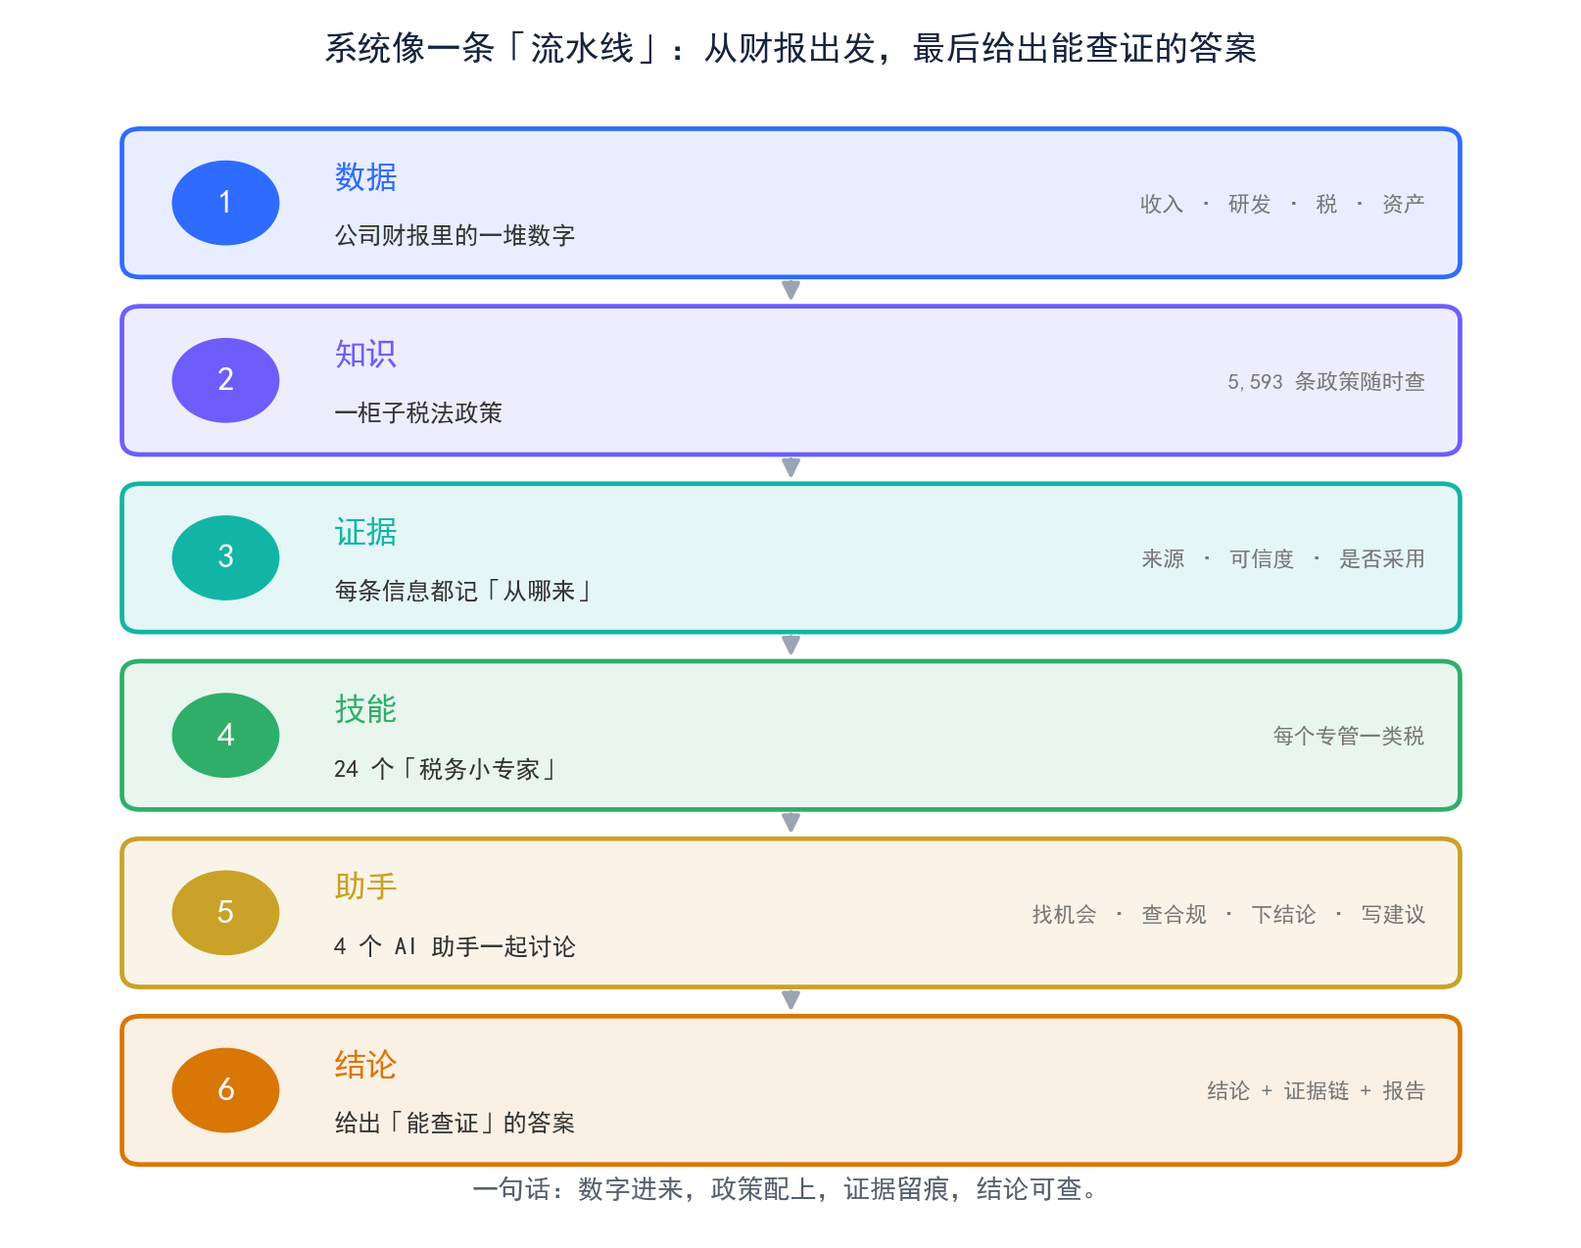
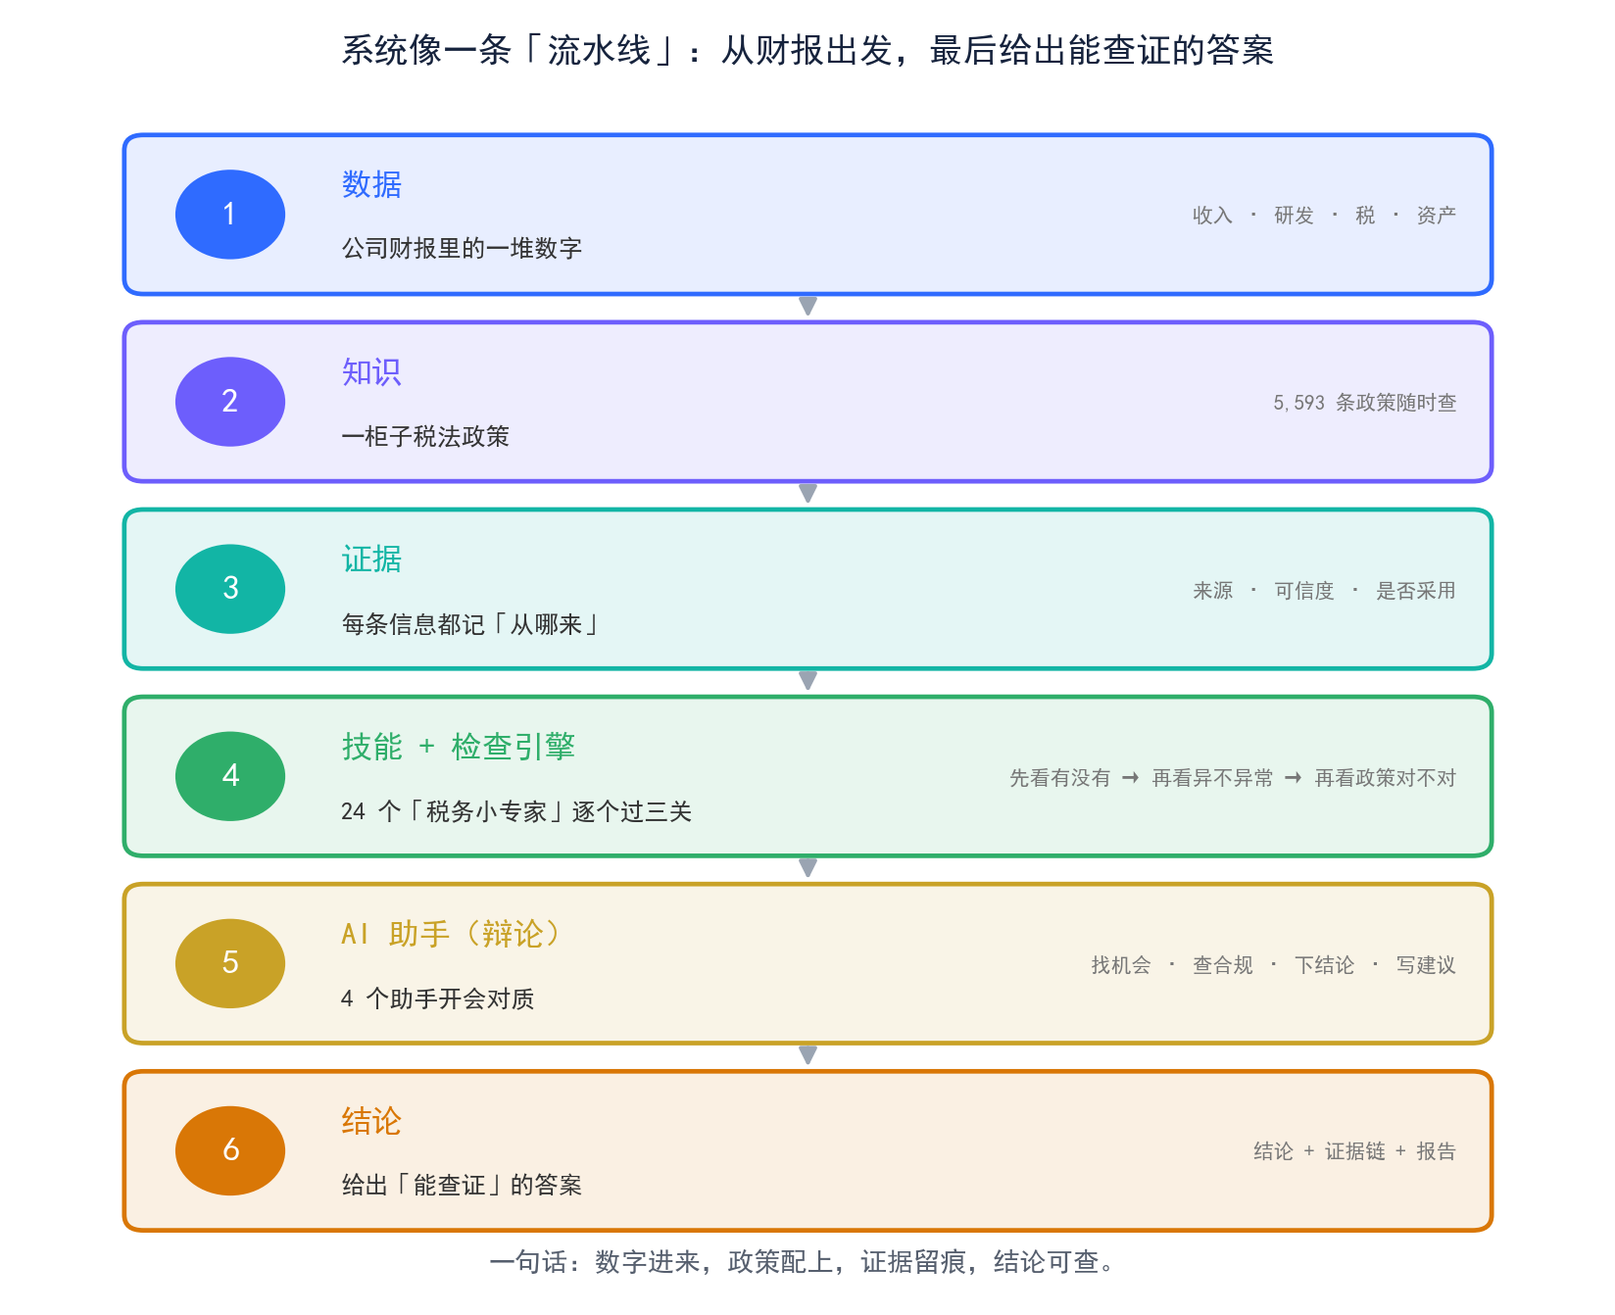
演示材料升级：新增检查引擎图(24技能三级门禁)与辩论流程图(红蓝绿+顾问)，架构图突出技能/辩论，讲稿同步更新

diff --git a/scripts/make_demo_figures.py b/scripts/make_demo_figures.py
@@ -1,9 +1,7 @@
-"""生成演示用「大白话」三张图：架构图 / 流程图 / 更新迭代图。
+"""生成演示用「大白话」图：架构图 / 检查引擎图 / 辩论流程图 / 流程图 / 迭代图。
 
 输出到 assets/：
-    demo_架构图.png
-    demo_流程图.png
-    demo_迭代图.png
+    demo_架构图.png  demo_引擎图.png  demo_辩论图.png  demo_流程图.png  demo_迭代图.png
 用法：python scripts/make_demo_figures.py
 """
 from __future__ import annotations
@@ -32,6 +30,7 @@ for cand in (r"C:\Windows\Fonts\simhei.ttf", r"C:\Windows\Fonts\msyh.ttc"):
 rcParams["axes.unicode_minus"] = False
 
 BLUE, PURPLE, TEAL, GREEN, AMBER, ORANGE = "#2f6bff", "#6d5efc", "#12b5a5", "#2fae6a", "#c9a227", "#d97706"
+RED, BLUE2, GREY = "#d9534f", "#2f6bff", "#8a93a3"
 
 
 def _canvas(w, h):
@@ -42,18 +41,35 @@ def _canvas(w, h):
     return fig, ax
 
 
-# ────────────── ① 架构图（大白话）──────────────
+def _box(ax, x, y, w, h, color, title, sub="", tsize=13, ssize=9.5):
+    ax.add_patch(FancyBboxPatch((x, y), w, h,
+                 boxstyle="round,pad=0.03,rounding_size=0.14",
+                 linewidth=2, edgecolor=color, facecolor=color + "1a"))
+    ax.text(x + w / 2, y + h / 2 + (0.28 if sub else 0), title, fontsize=tsize,
+            color=color, ha="center", va="center", fontweight="bold")
+    if sub:
+        ax.text(x + w / 2, y + h / 2 - 0.34, sub, fontsize=ssize, color="#555555",
+                ha="center", va="center")
+
+
+def _arrow(ax, p1, p2, color=GREY, style="-|>", lw=1.6, ls="-"):
+    ax.add_patch(FancyArrowPatch(p1, p2, arrowstyle=style, mutation_scale=16,
+                 color=color, linewidth=lw, linestyle=ls,
+                 connectionstyle="arc3,rad=0"))
+
+
+# ────────────── ① 架构图 ──────────────
 def arch():
     layers = [
         ("数据", "公司财报里的一堆数字", "收入 · 研发 · 税 · 资产", BLUE),
         ("知识", "一柜子税法政策", "5,593 条政策随时查", PURPLE),
         ("证据", "每条信息都记「从哪来」", "来源 · 可信度 · 是否采用", TEAL),
-        ("技能", "24 个「税务小专家」", "每个专管一类税", GREEN),
-        ("助手", "4 个 AI 助手一起讨论", "找机会 · 查合规 · 下结论 · 写建议", AMBER),
+        ("技能 + 检查引擎", "24 个「税务小专家」逐个过三关", "先看有没有 → 再看异不异常 → 再看政策对不对", GREEN),
+        ("AI 助手（辩论）", "4 个助手开会对质", "找机会 · 查合规 · 下结论 · 写建议", AMBER),
         ("结论", "给出「能查证」的答案", "结论 + 证据链 + 报告", ORANGE),
     ]
-    fig, ax = _canvas(9.6, 7.6)
-    y, h, gap = 9.05, 1.18, 0.28
+    fig, ax = _canvas(9.8, 8.0)
+    y, h, gap = 9.05, 1.20, 0.26
     for i, (t, d, s, c) in enumerate(layers, 1):
         ax.add_patch(FancyBboxPatch((0.7, y - h), 8.6, h,
                      boxstyle="round,pad=0.02,rounding_size=0.12",
@@ -61,42 +77,110 @@ def arch():
         ax.add_patch(plt.Circle((1.35, y - h / 2), 0.34, color=c, zorder=3))
         ax.text(1.35, y - h / 2, str(i), color="white", ha="center", va="center",
                 fontsize=15, fontweight="bold", zorder=4)
-        ax.text(2.05, y - h / 2 + 0.22, t, fontsize=14, color=c, va="center", fontweight="bold")
+        ax.text(2.05, y - h / 2 + 0.24, t, fontsize=13.5, color=c, va="center", fontweight="bold")
         ax.text(2.05, y - h / 2 - 0.26, d, fontsize=10.5, color="#333333", va="center")
-        ax.text(9.1, y - h / 2, s, fontsize=9.5, color="#777777", va="center", ha="right")
+        ax.text(9.1, y - h / 2, s, fontsize=8.8, color="#777777", va="center", ha="right")
         if i < len(layers):
             ax.add_patch(FancyArrowPatch((5.0, y - h - 0.02), (5.0, y - h - gap + 0.02),
                          arrowstyle="-|>", mutation_scale=16, color="#9aa4b2", linewidth=1.6))
         y -= (h + gap)
     ax.text(5.0, 9.65, "系统像一条「流水线」：从财报出发，最后给出能查证的答案",
             fontsize=15, ha="center", fontweight="bold", color="#16233d")
-    ax.text(5.0, 0.28, "一句话：数字进来，政策配上，证据留痕，结论可查。",
+    ax.text(5.0, 0.22, "一句话：数字进来，政策配上，证据留痕，结论可查。",
             fontsize=11.5, ha="center", color="#565f6e")
     fig.tight_layout()
     fig.savefig(OUT / "demo_架构图.png", bbox_inches="tight")
     plt.close(fig)
 
 
-# ────────────── ② 流程图（大白话）──────────────
+# ────────────── ② 检查引擎图（三级门禁）──────────────
+def engine():
+    gates = [
+        ("输入", "一家公司的全部数据", 8.4, BLUE, ""),
+        ("第 1 关 · L0 事实存在", "这条线「有没有」？", 7.4, PURPLE, "有 → 候选池"),
+        ("第 2 关 · L1 异常信号", "是不是「不正常」？", 6.4, TEAL, "异常 → 值得查"),
+        ("第 3 关 · L2 政策匹配", "政策对不对、条件够不够？", 5.4, GREEN, "匹配 → 深算"),
+        ("证据门禁", "关键数据「齐不齐」？", 4.4, AMBER, "齐 → PASS"),
+    ]
+    fig, ax = _canvas(10.2, 7.8)
+    y, h, gap = 8.9, 1.05, 0.42
+    for t, q, w, c, note in gates:
+        x = (10 - w) / 2
+        ax.add_patch(FancyBboxPatch((x, y - h), w, h,
+                     boxstyle="round,pad=0.02,rounding_size=0.12",
+                     linewidth=2, edgecolor=c, facecolor=c + "1c"))
+        ax.text(x + w / 2, y - h / 2 + 0.22, t, fontsize=12.5, color=c, ha="center",
+                va="center", fontweight="bold")
+        ax.text(x + w / 2, y - h / 2 - 0.24, q, fontsize=10, color="#333333", ha="center", va="center")
+        ax.text(9.85, y - h / 2, note, fontsize=8.6, color="#888888", ha="right", va="center")
+        ax.add_patch(FancyArrowPatch((5.0, y - h - 0.02), (5.0, y - h - gap + 0.06),
+                     arrowstyle="-|>", mutation_scale=15, color="#9aa4b2", linewidth=1.5))
+        y -= (h + gap)
+    # 出口
+    ax.add_patch(FancyBboxPatch((2.6, y - 0.95), 4.8, 0.95,
+                 boxstyle="round,pad=0.03,rounding_size=0.14",
+                 linewidth=2.4, edgecolor=ORANGE, facecolor=ORANGE + "22"))
+    ax.text(5.0, y - 0.48, "出口：只把「最值得查」的方向送去深度分析", fontsize=11.5,
+            color=ORANGE, ha="center", va="center", fontweight="bold")
+    ax.text(5.0, 9.55, "检查引擎：24 个技能，每个都要过「三关」", fontsize=15.5, ha="center",
+            fontweight="bold", color="#16233d")
+    ax.text(5.0, 0.30, "把「可能的省税点」筛成「值得认真算的方向」——不放过、也不乱报。",
+            fontsize=11, ha="center", color="#565f6e")
+    fig.tight_layout()
+    fig.savefig(OUT / "demo_引擎图.png", bbox_inches="tight")
+    plt.close(fig)
+
+
+# ────────────── ③ 辩论流程图 ──────────────
+def debate():
+    fig, ax = _canvas(9.8, 8.0)
+    _box(ax, 0.7, 7.1, 3.5, 1.7, RED, "Red · 找机会", "从数据里提出「可能的省税点」", 13, 9.5)
+    _box(ax, 5.8, 7.1, 3.5, 1.7, BLUE2, "Blue · 查合规", "逐条质疑：合不合规？有没有风险？", 13, 9.5)
+    ax.add_patch(FancyArrowPatch((4.25, 8.15), (5.75, 8.15), arrowstyle="-|>",
+                 mutation_scale=16, color=GREY, linewidth=1.8))
+    ax.add_patch(FancyArrowPatch((5.75, 7.75), (4.25, 7.75), arrowstyle="-|>",
+                 mutation_scale=16, color=GREY, linewidth=1.8))
+    ax.text(5.0, 8.55, "多轮对质", fontsize=11, color="#333333", ha="center", fontweight="bold")
+    ax.text(5.0, 6.82, "有新证据就继续，没有就停", fontsize=9.5, color="#777777", ha="center")
+
+    _box(ax, 3.25, 4.4, 3.5, 1.6, GREEN, "Green · 综合决策", "由「规则」下结论，AI 只补充理由", 13, 9)
+    _arrow(ax, (2.45, 7.1), (4.2, 6.0), GREY)
+    _arrow(ax, (7.55, 7.1), (5.8, 6.0), GREY)
+
+    _box(ax, 3.0, 2.2, 4.0, 1.5, ORANGE,
+         "结论四态", "已确认 / 情景测算 / 证据不足 / 不推荐", 12.5, 9)
+    _arrow(ax, (5.0, 4.4), (5.0, 3.7), GREY)
+
+    _box(ax, 7.15, 4.4, 2.15, 1.6, PURPLE, "Advisor", "税务顾问\n意见书", 11.5, 9)
+    ax.add_patch(FancyArrowPatch((6.75, 5.2), (7.15, 5.2), arrowstyle="-|>",
+                 mutation_scale=14, color=PURPLE, linewidth=1.4, linestyle="--"))
+
+    ax.text(5.0, 9.5, "辩论流程：红蓝对质，绿方拍板", fontsize=15.5, ha="center",
+            fontweight="bold", color="#16233d")
+    ax.text(5.0, 1.35, "重点：无论怎么辩论，「金额」和「政策是否有效」都由规则说了算，AI 改不了。",
+            fontsize=11, ha="center", color=RED, fontweight="bold")
+    fig.tight_layout()
+    fig.savefig(OUT / "demo_辩论图.png", bbox_inches="tight")
+    plt.close(fig)
+
+
+# ────────────── ④ 流程图 ──────────────
 def flow():
     steps = [
         ("①", "选一家公司", "输入股票代码"),
         ("②", "读它的财报", "自动读 2024 年数据"),
-        ("③", "找出省税点", "比如研发、折旧、补助"),
-        ("④", "查对应税法", "只查「还在生效」的"),
+        ("③", "过检查引擎", "24 个技能过三关，筛方向"),
+        ("④", "红蓝辩论", "找机会 vs 查合规，多轮对质"),
         ("⑤", "算一算", "能省多少税（确定性计算）"),
         ("⑥", "给出结论", "结论 + 证据链，可逐条核对"),
     ]
     fig, ax = _canvas(9.8, 7.2)
-    cols = 3
-    bw, bh = 2.7, 1.9
-    xs = [0.55, 3.65, 6.75]
-    ys = [5.7, 2.6]
-    centers = []
+    cols, bw, bh = 3, 2.7, 1.9
+    xs, ys = [0.55, 3.65, 6.75], [5.7, 2.6]
     for idx, (num, t, d) in enumerate(steps):
         r, c = divmod(idx, cols)
         x, y = xs[c], ys[r]
-        col = [BLUE, PURPLE, TEAL, GREEN, AMBER, ORANGE][idx]
+        col = [BLUE, PURPLE, TEAL, AMBER, GREEN, ORANGE][idx]
         ax.add_patch(FancyBboxPatch((x, y), bw, bh,
                      boxstyle="round,pad=0.03,rounding_size=0.14",
                      linewidth=2, edgecolor=col, facecolor=col + "1a"))
@@ -104,10 +188,8 @@ def flow():
                 ha="center", va="center", fontweight="bold")
         ax.text(x + bw / 2, y + bh - 0.92, t, fontsize=13, color="#16233d",
                 ha="center", va="center", fontweight="bold")
-        ax.text(x + bw / 2, y + bh - 1.42, d, fontsize=9.5, color="#555555",
+        ax.text(x + bw / 2, y + bh - 1.42, d, fontsize=9, color="#555555",
                 ha="center", va="center")
-        centers.append((x + bw / 2, y, x, y + bh))
-    # 箭头：①→②→③ 向右，③→④ 换行，④→⑤→⑥ 向右
     def arrow(x1, y1, x2, y2):
         ax.add_patch(FancyArrowPatch((x1, y1), (x2, y2), arrowstyle="-|>",
                      mutation_scale=16, color="#9aa4b2", linewidth=1.6))
@@ -125,12 +207,12 @@ def flow():
     plt.close(fig)
 
 
-# ────────────── ③ 更新迭代图 ──────────────
+# ────────────── ⑤ 迭代图 ──────────────
 def timeline():
     items = [
         ("v1", "数据 + 架构", "88 张表并入，搭好骨架", BLUE),
         ("v2", "证据层", "每条信息都记来源", PURPLE),
-        ("v3", "审查与验证", "147 个用例，字段级口径", TEAL),
+        ("v3", "检查引擎", "24 技能 + 三级门禁 + 147 用例", TEAL),
         ("v4", "界面", "三栏工作台，看得见", GREEN),
         ("v5", "可信度工程", "金额语义 + 政策时效门禁", AMBER),
         ("v6", "意见与设置", "税务顾问意见书", ORANGE),
@@ -164,6 +246,8 @@ def timeline():
 
 if __name__ == "__main__":
     arch()
+    engine()
+    debate()
     flow()
     timeline()
     print("已生成：", [p.name for p in sorted(OUT.glob("demo_*.png"))])

diff --git a/演示讲稿.md b/演示讲稿.md
@@ -2,7 +2,8 @@
 
 > 适用：竞赛介绍视频 / 现场答辩演示
 > 用法：**【】内是屏幕操作或画面提示，不用念出来**；正文为口播稿。
-> 建议：开头与结尾队长出镜，中间放录屏演示；全程配三张图（`assets/demo_架构图.png`、`demo_流程图.png`、`demo_迭代图.png`）。
+> 建议：开头与结尾队长出镜，中间放录屏演示。
+> 配图（`assets/`）：`demo_架构图.png`、`demo_引擎图.png`、`demo_辩论图.png`、`demo_流程图.png`、`demo_迭代图.png`
 
 ---
 
@@ -20,70 +21,93 @@
 
 ---
 
-## ⏱ 0:30 – 1:10　痛点（为什么要做）
+## ⏱ 0:30 – 1:00　痛点（为什么要做）
 
 【画面：`assets/demo_架构图.png`】
 
 > 现在很多人用大模型做税务分析，但它有三个硬伤：
-> **第一**，说出来的结论查不到依据；
-> **第二**，可能引用一条根本不存在、或者早就作废的政策；
+> **第一**，结论查不到依据；
+> **第二**，可能引用一条不存在、或早就作废的政策；
 > **第三**，明明不满足条件，也说「可以享受」——这在税务上是会出事的。
 >
 > 我们的思路很简单：**让程序负责「确定性」，让大模型只负责「发现和解释」。**
 
 ---
 
-## ⏱ 1:10 – 3:30　现场演示（核心，边操作边讲）
+## ⏱ 1:00 – 2:10　系统怎么想（检查引擎 + 辩论）
 
-【画面：打开「生成」页 → 输入股票代码 600004 → 选 2024 年 → 点「开始分析」】
+【画面：`assets/demo_引擎图.png`】
 
-> 下面我用一家**真实的上市公司**演示。输入代码，选择年度，点击分析。
+> 先说我们的**检查引擎**。
+> 系统内置了 **24 个「税务小专家」**，每个专家管一类税。
+> 对每一类税，它都要过**三关**：
+> **第一关 L0**，看这条线「有没有」；
+> **第二关 L1**，看它「正不正常」——比如是不是明显偏离同行；
+> **第三关 L2**，看「政策对不对、条件够不够」。
+> 最后还有一道**证据门禁**：关键数据齐不齐？**不齐就标「待补」，绝不硬算。**
+> 这样，就把「可能的省税点」筛成了「值得认真算的方向」。
 
-【进度条推进，展示运行中】
+【画面：`assets/demo_辩论图.png`】
 
-> 系统正在自动完成六步：**读财报 → 找方向 → 查政策 → 算税额 → 给结论**。
+> 筛出来的方向，会交给 **4 个 AI 助手开会**：
+> **Red 找机会**，从数据里提出「可能的省税点」；
+> **Blue 查合规**，逐条质疑「合不合规、有没有风险」；
+> 两边**多轮对质**，有新证据就继续，没有就停；
+> 最后由 **Green 综合决策**，给出结论。
+>
+> 这里最关键的一句话是：**结论由「规则」说了算，AI 只能补充理由，改不了金额、也改不了政策是否有效。**
+
+---
+
+## ⏱ 2:10 – 3:40　现场演示（六步走）
+
+【画面：`assets/demo_流程图.png` → 打开「生成」页 → 输入 600004 → 选 2024 → 点「开始分析」】
+
+> 下面用一家**真实的上市公司**演示。六步走：选公司、读财报、过检查引擎、红蓝辩论、算一算、给结论。
+
+【进度条推进】
+
 > 注意，**每一步都会留下出处**。
 
 【结果页：结论摘要】
 
-> 这是结论摘要。它不会给你一句空话，而是分成四种状态：
-> **已确认、情景测算、证据不足、不推荐**。
+> 这是结论摘要，分成四种状态：**已确认、情景测算、证据不足、不推荐**。
 
-【点开某个方向 → 展示 7 节点证据链】
+【点开某方向 → 7 节点证据链】
 
 > 点开任意一个方向，就是这条「**证据链**」：
 > 企业事实 → 诊断信号 → 税务方向 → 政策依据 → 条件核验 → 税额计算 → 最终结论。
-> 比如这一条，它引用的政策是《国家税务总局公告 2017 年第 24 号》，是**现行有效**的；
+> 比如这一条，它引用的政策是《国家税务总局公告 2017 年第 24 号》，**现行有效**；
 > 依据是这家公司的研发投入和名义税率——**全部能核对**。
 
 【切到「证据不足」的方向】
 
-> 更想让大家看的，是这里：对于证据不够的方向，它会明确写「**证据不足**」，提示需要补充材料。
+> 更想让大家看的，是这里：证据不够的方向，它会明确写「**证据不足**」，提示补充材料。
 > **宁可说「不知道」，也不编**——这是我们最重要的设计。
 
-【可选：点击「下载报告 (PDF)」】
+【可选：点「下载报告 (PDF)」】
 
-> 结论可以导出成报告和 PDF，而且每一页都标注了「**AI 生成**」。
+> 结论能导出成报告和 PDF，每一页都标注「**AI 生成**」。
 
 ---
 
-## ⏱ 3:30 – 4:20　亮点（为什么可信）
+## ⏱ 3:40 – 4:30　亮点（为什么可信）
 
-【画面：`assets/demo_流程图.png`，再切到效果评估报告】
+【画面：效果评估报告 / 对比表】
 
-> 我们不只是「做出来」，还做了**验证**。
-> 在同一份企业数据下，我们和「大模型 + 政策检索」做对比：
->
-> 本系统的建议：**证据接地率 100%，政策可核验率 100%**；
-> 而大模型基线：**证据接地率是 0%**，而且大约**四分之一**引用的政策在官方库里查不到，甚至编造过文号。
+> 我们不只「做出来」，还做了**验证**。
+> 在同一份企业数据下，和「大模型 + 政策检索」对比：
+> 本系统建议的**证据接地率 100%、政策可核验率 100%**；
+> 而大模型基线，**证据接地率是 0%**，约**四分之一**引用的政策在官方库里查不到，甚至编造过文号。
 
 【画面：`assets/demo_迭代图.png`】
 
-> 从 v1 到 v9，我们其实一直在加强同一件事：**让每一步都有出处**。
+> 从 v1 到 v9，我们一直在加强同一件事：**让每一步都有出处**。
+> v3 上线了检查引擎和 147 个测试用例；v5 加了金额语义和政策时效门禁。
 
 ---
 
-## ⏱ 4:20 – 5:00　收尾（一句话记住我们）
+## ⏱ 4:30 – 5:00　收尾（一句话记住我们）
 
 【画面：回到首页 / 团队合影】
 
@@ -99,16 +123,17 @@
 
 | 提问 | 建议回答 |
 |---|---|
-| 你们的系统会不会也出错？ | 会。所以我们把不确定的如实标成「证据不足」，金额只由确定性计算给出，绝不夸大。 |
+| 检查引擎是怎么筛方向的？ | 24 个技能，每个过 L0「有没有」→ L1「正不正常」→ L2「政策对不对」，再过证据门禁；数据不齐就标「待补」，不硬算。 |
+| 红蓝辩论会不会让结论不可控？ | 不会。辩论只影响「是否推荐」；**金额和政策时效由规则硬约束**，AI 改不了。 |
+| 你们的系统会不会也出错？ | 会。所以不确定的如实标成「证据不足」，金额只由确定性计算给出，绝不夸大。 |
 | 和通用大模型比，你们强在哪？ | 强在「**可核验**」：每条结论都有企业数据和现行有效政策支撑；大模型没有证据链。 |
 | 用了哪些数据？ | 授权的企业财务数据、国家税务总局政策法规库、公开公告；详见《数据来源与合规说明》。 |
-| 这个能落地吗？ | 可现场演示，一键启动；报告、证据链、意见书都能导出 PDF，可直接用于尽调和自查。 |
 
 ---
 
 ## 🎬 录制小贴士
 
-1. **先跑一遍**：提前把 `600004 / 2024` 分析跑一次（结果有缓存），现场演示不卡顿。
-2. **网络兜底**：准备一段**备用录屏**，以防现场网络或额度问题。
-3. **节奏**：演示别贪多，**重点讲「证据不足」那一条**——它最能体现我们的态度。
-4. **收尾要稳**：最后那句「每一句都站得住」重复一次，让评委记住。
+1. **先跑一遍**：提前把 `600004 / 2024` 跑一次（有缓存），现场演示不卡顿。
+2. **网络兜底**：准备一段**备用录屏**。
+3. **讲重点**：演示时**故意展示「证据不足」那一条**，最能体现我们的态度。
+4. **记住三句**：① 24 个技能过三关；② 红蓝对质、绿方拍板；③ 每一句都站得住。
